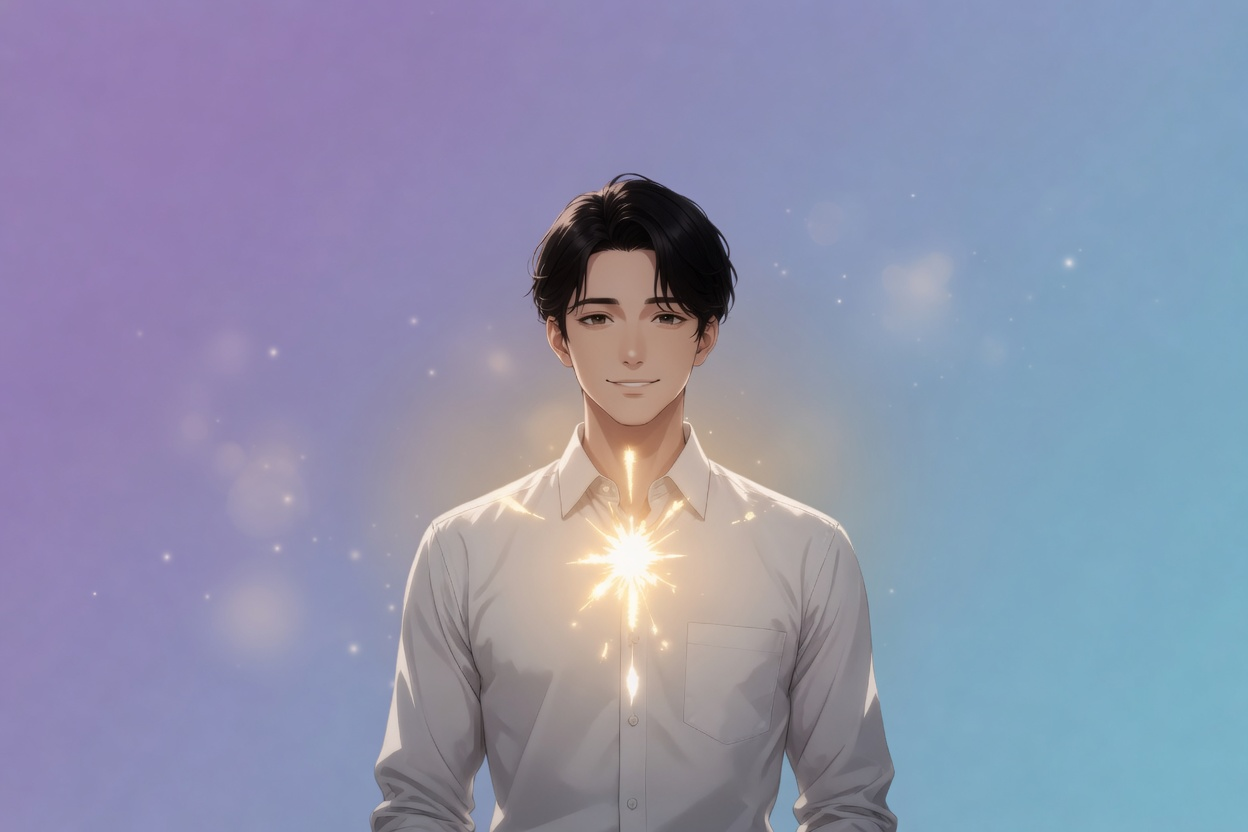
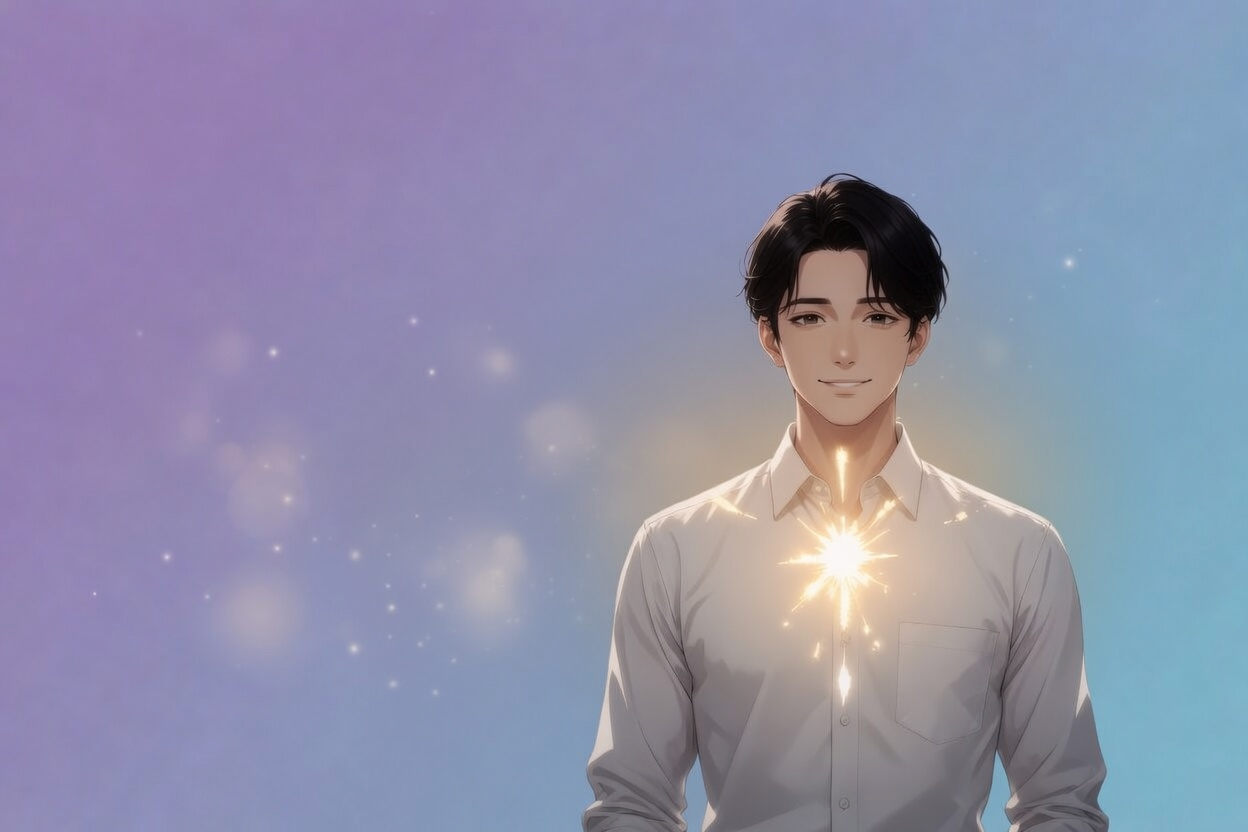
男性キャラ画像を更新・顔の表示位置を調整

diff --git a/index.html b/index.html
@@ -21,7 +21,7 @@
     <p data-i18n="genderDesc">あなたのモードを選んでください</p>
     <div class="gender-buttons">
       <button class="btn-gender" data-gender="male">
-        <div class="gender-face" style="background-image:url('./bg-hero-male.jpg');background-position:50% 20%"></div>
+        <div class="gender-face" style="background-image:url('./bg-hero-male.jpg');background-position:65% 18%"></div>
         <span data-i18n="genderMale">男性モード</span>
       </button>
       <button class="btn-gender" data-gender="female">
